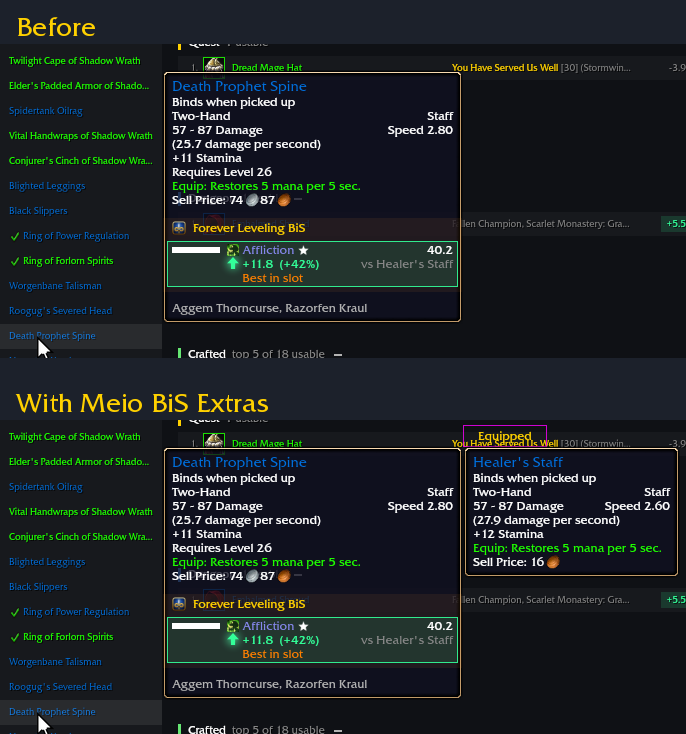
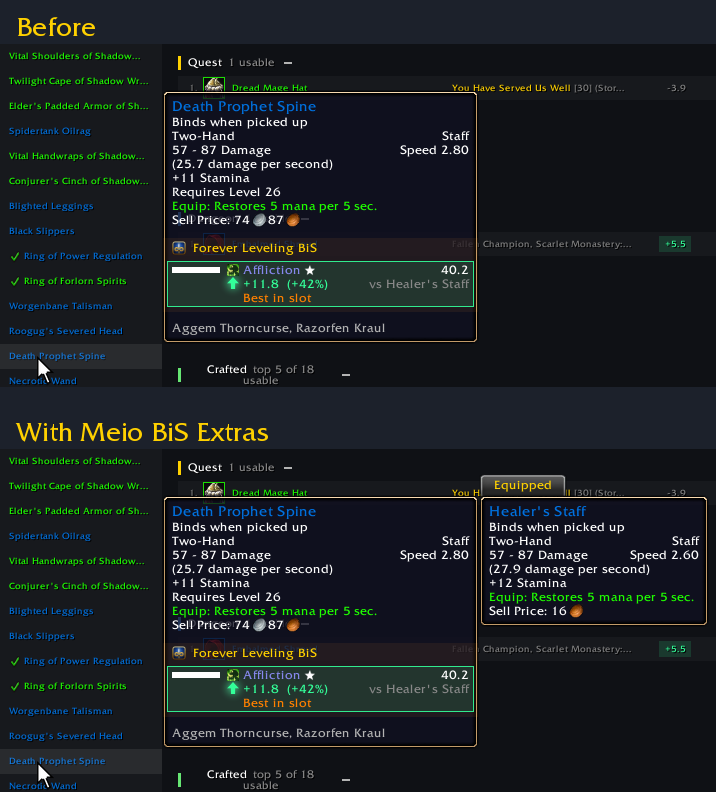
Listing pictures re-rendered; new summary and opening line

Changed region(s): [[0.0, 0.0, 1.0, 1.0], [0.9796, 0.0899, 1.0, 0.1199]]

diff --git a/README.md b/README.md
@@ -1,6 +1,7 @@
 # Meio BiS Extras
 
-Forever Leveling BiS's windows easier to use, and its verdicts on your Character frame.
+For Forever Leveling BiS: its tooltips compare without holding Shift, and its verdicts show
+on your Character frame.
 
 For WoW Forever.
 
